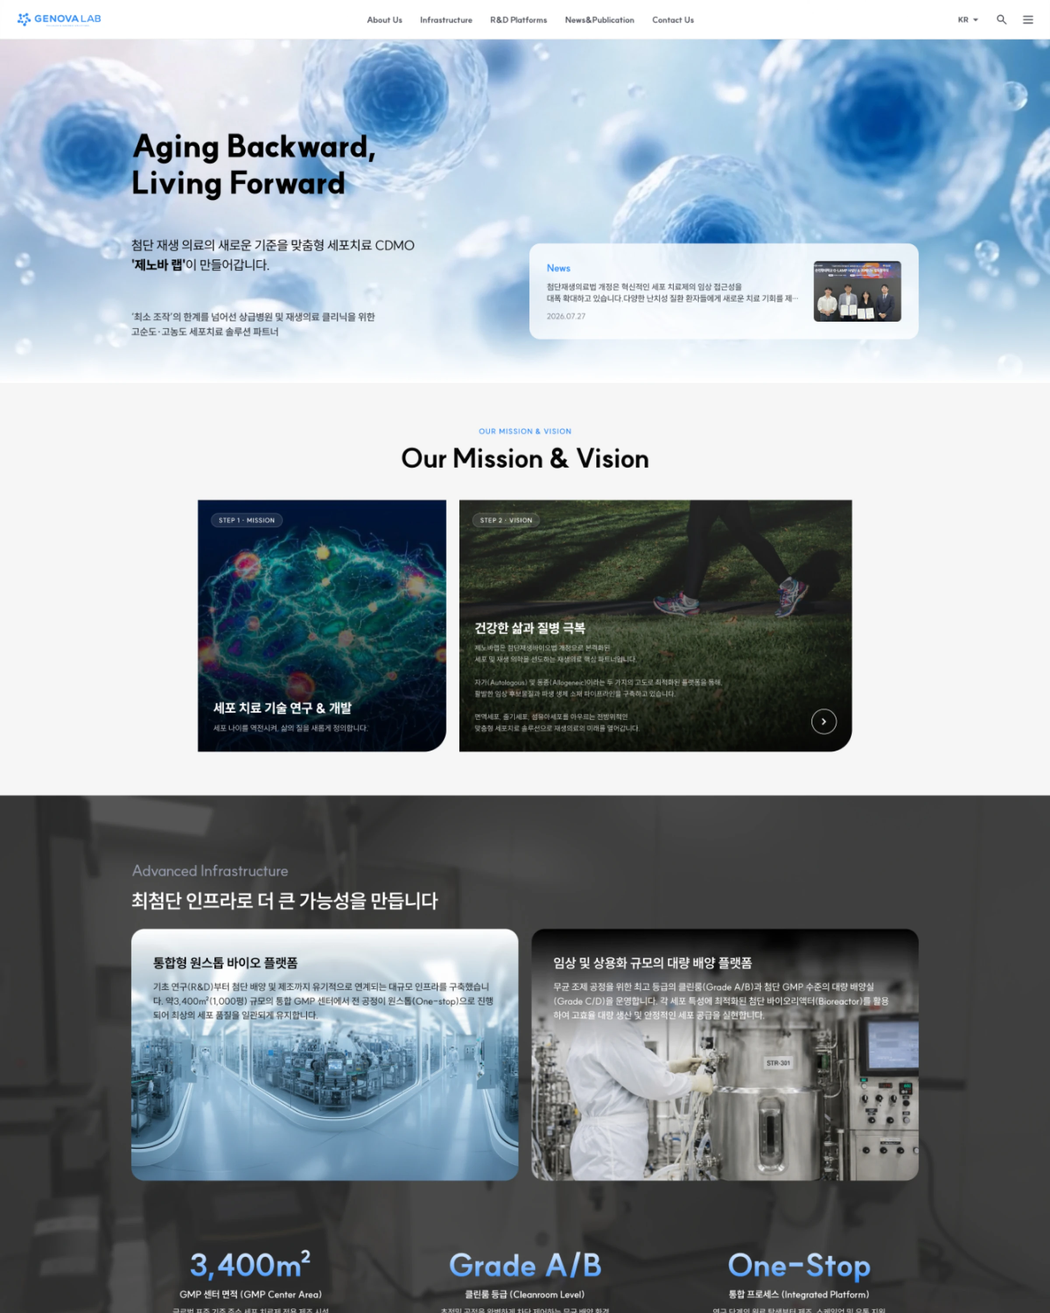
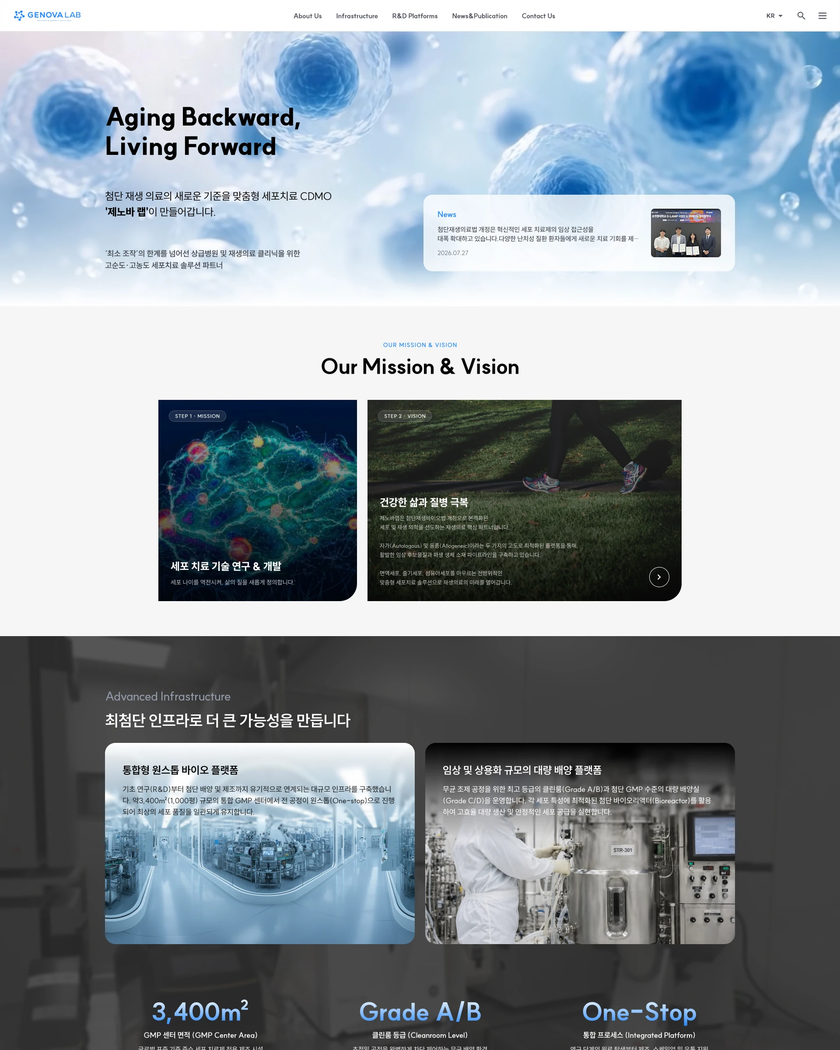
메인 타이틀 크기·행간 조정, 원본 기반 고화질 이미지 18개 교체
Claude-Session: https://claude.ai/code/session_01JxEUUdRAvq1BXQfKpdxvD4

diff --git a/work/genova.html b/work/genova.html
@@ -47,8 +47,8 @@
 </div>
 <section class="section section--surface"><div class="container"><div class="section-head" data-reveal><p class="t-eyebrow">KEY POINTS</p><h2 class="t-h1">기획안에서 최종까지</h2></div><div class="points" style="--cols:4"><div class="point" data-reveal style="--delay:0.00s"><span class="num t-h3">01</span><h3 class="t-h3">핵심 내용 선별</h3><p>업체 제공 자료에서 3,400㎡ · Grade A/B · One-Stop을 핵심으로 골라 Advanced Infrastructure 섹션으로 구성했습니다.</p></div><div class="point" data-reveal style="--delay:0.06s"><span class="num t-h3">02</span><h3 class="t-h3">원페이지 → 서브페이지</h3><p>처음엔 원페이지에 팝업으로 많은 정보를 담았다가, 서브페이지 제작이 결정되며 메인의 정보를 덜어내고 다시 나눴습니다.</p></div><div class="point" data-reveal style="--delay:0.12s"><span class="num t-h3">03</span><h3 class="t-h3">서브페이지 3종</h3><p>클라이언트 요청에 맞춰 공지사항 · 언론보도 · 문의하기 페이지를 추가했습니다.</p></div><div class="point" data-reveal style="--delay:0.18s"><span class="num t-h3">04</span><h3 class="t-h3">피드백 반영</h3><p>Mission과 Vision을 시각적으로 분리하고, 제품 탭을 3종에서 4종(EXOSOME 추가)으로 바꿨습니다.</p></div></div></div></section>
 <section class="section"><div class="container"><div class="section-head" data-reveal><p class="t-eyebrow">STRUCTURE</p><h2 class="t-h1">섹션 구성의 변화</h2><p class="t-sub">블루는 직접 제안한 섹션, 회색 태그는 요청을 반영한 섹션입니다.</p></div><div class="compare"><div class="compare-col" data-reveal><h3 class="t-h3">기획안 (원페이지)</h3><ol><li class=""><span class="n">01</span><span class="label">메인 영상</span></li><li class=""><span class="n">02</span><span class="label">Science — Immune · Stem · NK Cell</span></li><li class=""><span class="n">03</span><span class="label">공식 자문의 소개</span></li><li class=""><span class="n">04</span><span class="label">연구 수치</span></li><li class=""><span class="n">05</span><span class="label">연구 이미지 (본문 미정)</span></li><li class=""><span class="n">06</span><span class="label">파트너</span></li><li class=""><span class="n">07</span><span class="label">연구소 이미지</span></li></ol></div><span class="arrow t-h1" aria-hidden="true">→</span><div class="compare-col" data-reveal><h3 class="t-h3">최종 (메인 + 서브페이지)</h3><ol><li class=""><span class="n">01</span><span class="label">Hero — Aging Backward, Living Forward</span></li><li class=""><span class="n">02</span><span class="label">Our Mission &amp; Vision</span><span class=badge>피드백</span></li><li class="is-mine"><span class="n">03</span><span class="label">Advanced Infrastructure</span><span class=badge>핵심 내용 선별</span></li><li class=""><span class="n">04</span><span class="label">Product — 4종 탭</span><span class=badge>피드백</span></li><li class=""><span class="n">05</span><span class="label">Partners</span></li><li class=""><span class="n">06</span><span class="label">News &amp; Publication</span><span class=badge>마케팅팀 요청</span></li><li class=""><span class="n">07</span><span class="label">Contact</span><span class=badge>마케팅팀 요청</span></li></ol></div></div></div></section>
-<section class="section section--surface"><div class="container"><div class="section-head" data-reveal><p class="t-eyebrow">PROCESS</p><h2 class="t-h1">디자인 방향 탐색</h2><p class="t-sub">기획안을 그대로 옮긴 초기 버전에서 시작해 두 가지 톤을 비교하고, 밝은 블루 세포 비주얼로 확정했습니다.</p></div><div class="figs" style="--cols:4;--cols-m:2"><figure class="fig" data-reveal style="--delay:0.00s"><img src="../img/genova/evolution-01.webp" alt="초기 버전" width="564" height="1720" loading="lazy" decoding="async"><figcaption><strong class="t-h3">초기 버전</strong><span class="sub">기획안 구성 그대로</span></figcaption></figure><figure class="fig" data-reveal style="--delay:0.06s"><img src="../img/genova/evolution-02.webp" alt="시안 1" width="564" height="1720" loading="lazy" decoding="async"><figcaption><strong class="t-h3">시안 1</strong><span class="sub">다크 네이비 · 연구소 신뢰감</span></figcaption></figure><figure class="fig" data-reveal style="--delay:0.12s"><img src="../img/genova/evolution-03.webp" alt="시안 2" width="564" height="1720" loading="lazy" decoding="async"><figcaption><strong class="t-h3">시안 2</strong><span class="sub">밝은 톤 · 실험실 사진</span></figcaption></figure><figure class="fig fig--key" data-reveal style="--delay:0.18s"><img src="../img/genova/evolution-04.webp" alt="최종" width="564" height="1720" loading="lazy" decoding="async"><figcaption><strong class="t-h3">최종</strong><span class="sub">블루 세포 비주얼 · 피드백 반영</span></figcaption></figure></div></div></section>
-<section class="section"><div class="container"><div class="section-head" data-reveal><p class="t-eyebrow">FINAL</p><h2 class="t-h1">최종 디자인</h2></div><div class="full"><div data-reveal><img src="../img/genova/final-main.webp" alt="최종 메인 화면" width="2400" height="3000" loading="lazy" decoding="async"></div></div><h3 class="t-h3" style="margin:48px 0 24px">서브페이지</h3><div class="figs" style="--cols:3;--cols-m:1"><figure class="fig" data-reveal><img src="../img/genova/sub-notice.webp" alt="공지사항 화면" loading="lazy"><figcaption><span>공지사항</span></figcaption></figure><figure class="fig" data-reveal><img src="../img/genova/sub-press.webp" alt="언론보도 화면" loading="lazy"><figcaption><span>언론보도</span></figcaption></figure><figure class="fig" data-reveal><img src="../img/genova/sub-contact.webp" alt="문의하기 화면" loading="lazy"><figcaption><span>문의하기</span></figcaption></figure></div></div></section>
+<section class="section section--surface"><div class="container"><div class="section-head" data-reveal><p class="t-eyebrow">PROCESS</p><h2 class="t-h1">디자인 방향 탐색</h2><p class="t-sub">기획안을 그대로 옮긴 초기 버전에서 시작해 두 가지 톤을 비교하고, 밝은 블루 세포 비주얼로 확정했습니다.</p></div><div class="figs" style="--cols:4;--cols-m:2"><figure class="fig" data-reveal style="--delay:0.00s"><img src="../img/genova/evolution-01.webp" alt="초기 버전" width="900" height="2745" loading="lazy" decoding="async"><figcaption><strong class="t-h3">초기 버전</strong><span class="sub">기획안 구성 그대로</span></figcaption></figure><figure class="fig" data-reveal style="--delay:0.06s"><img src="../img/genova/evolution-02.webp" alt="시안 1" width="900" height="2745" loading="lazy" decoding="async"><figcaption><strong class="t-h3">시안 1</strong><span class="sub">다크 네이비 · 연구소 신뢰감</span></figcaption></figure><figure class="fig" data-reveal style="--delay:0.12s"><img src="../img/genova/evolution-03.webp" alt="시안 2" width="900" height="2745" loading="lazy" decoding="async"><figcaption><strong class="t-h3">시안 2</strong><span class="sub">밝은 톤 · 실험실 사진</span></figcaption></figure><figure class="fig fig--key" data-reveal style="--delay:0.18s"><img src="../img/genova/evolution-04.webp" alt="최종" width="900" height="2745" loading="lazy" decoding="async"><figcaption><strong class="t-h3">최종</strong><span class="sub">블루 세포 비주얼 · 피드백 반영</span></figcaption></figure></div></div></section>
+<section class="section"><div class="container"><div class="section-head" data-reveal><p class="t-eyebrow">FINAL</p><h2 class="t-h1">최종 디자인</h2></div><div class="full"><div data-reveal><img src="../img/genova/final-main.webp" alt="최종 메인 화면" width="1920" height="2400" loading="lazy" decoding="async"></div></div><h3 class="t-h3" style="margin:48px 0 24px">서브페이지</h3><div class="figs" style="--cols:3;--cols-m:1"><figure class="fig" data-reveal><img src="../img/genova/sub-notice.webp" alt="공지사항 화면" loading="lazy"><figcaption><span>공지사항</span></figcaption></figure><figure class="fig" data-reveal><img src="../img/genova/sub-press.webp" alt="언론보도 화면" loading="lazy"><figcaption><span>언론보도</span></figcaption></figure><figure class="fig" data-reveal><img src="../img/genova/sub-contact.webp" alt="문의하기 화면" loading="lazy"><figcaption><span>문의하기</span></figcaption></figure></div></div></section>
 <section class="section section--surface"><div class="container"><div class="result"><div class="section-head" data-reveal><p class="t-eyebrow">RESULT</p><h2 class="t-h1">결과</h2></div><div data-reveal><div class="t-body-l"><p>키워드 중심의 원페이지 기획안을 메인과 서브페이지 3종으로 구체화하고, 클라이언트 피드백을 반영해 최종 디자인을 확정했습니다. 이후 클라이언트 측 일정 보류로 퍼블리싱 전 단계에서 종료되었습니다.</p></div></div></div></div></section>
 <nav class="next-nav section--surface" aria-label="프로젝트 이동">
   <div class="container">

diff --git a/work/allagelab.html b/work/allagelab.html
@@ -49,8 +49,8 @@ FileZilla · AI 툴</dd></div><div><dt>STATUS</dt><dd>1차 디자인 확정 및 
 </div>
 <section class="section section--surface"><div class="container"><div class="section-head" data-reveal><p class="t-eyebrow">KEY POINTS</p><h2 class="t-h1">디자인부터 배포까지</h2></div><div class="points" style="--cols:4"><div class="point" data-reveal style="--delay:0.00s"><span class="num t-h3">01</span><h3 class="t-h3">고급스럽고 깔끔하게</h3><p>마케팅팀의 요청에 맞춰 장식적인 요소를 덜어내고, 여백과 정돈된 타이포로 화면을 구성했습니다.</p></div><div class="point" data-reveal style="--delay:0.06s"><span class="num t-h3">02</span><h3 class="t-h3">브랜드 페이지 공통 틀</h3><p>브랜드 페이지를 같은 레이아웃에 색과 이미지만 바꿔 일관되게 만들고, 브랜드별 개성은 제품 상세페이지에서 보여주도록 역할을 나눴습니다.</p></div><div class="point" data-reveal style="--delay:0.12s"><span class="num t-h3">03</span><h3 class="t-h3">반응형 설계</h3><p>데스크톱과 모바일을 설계하고, 태블릿 환경까지 직접 만들어 화면이 어떻게 바뀌는지 확인했습니다.</p></div><div class="point" data-reveal style="--delay:0.18s"><span class="num t-h3">04</span><h3 class="t-h3">직접 구현과 배포</h3><p>HTML을 PHP 파일로 구성하고 CSS · JS를 정리해 FileZilla로 서버에 올렸습니다. SEO 기본 세팅도 완료했습니다.</p></div></div></div></section>
 <section class="section section--soft"><div class="container"><div class="section-head" data-reveal><p class="t-eyebrow">WORKFLOW</p><h2 class="t-h1">AI를 도구로 쓰는 작업 과정</h2><p class="t-sub">AI가 만든 결과물은 의도를 먼저 파악하고, 제가 생각한 방향과 다르면 직접 수정하고 보완했습니다.</p></div><div class="steps"><div class="step" data-reveal style="--delay:0.00s"><span class="num t-h3">01</span><h3 class="t-h3">디자인 초안</h3><p>기획안과 비슷한 뷰티 브랜드 레퍼런스를 바탕으로 초안 제작</p></div><div class="step" data-reveal style="--delay:0.06s"><span class="num t-h3">02</span><h3 class="t-h3">섹션별 다듬기</h3><p>섹션 구성, 폰트, 이미지를 하나씩 수정</p></div><div class="step" data-reveal style="--delay:0.12s"><span class="num t-h3">03</span><h3 class="t-h3">피드백</h3><p>마케팅팀 검토와 셀프 검토로 수정</p></div><div class="step is-key" data-reveal style="--delay:0.18s"><span class="num t-h3">04</span><h3 class="t-h3">AI 퍼블리싱</h3><p>확정된 디자인을 AI를 활용해 코드로 구현</p></div><div class="step" data-reveal style="--delay:0.24s"><span class="num t-h3">05</span><h3 class="t-h3">검수와 보완</h3><p>오류와 의도와 다른 부분을 확인해 직접 수정</p></div></div></div></section>
-<section class="section"><div class="container"><div class="section-head" data-reveal><p class="t-eyebrow">BRAND PAGES</p><h2 class="t-h1">하나의 틀, 세 개의 브랜드</h2><p class="t-sub">클로베라와 닥터씨에이지는 같은 레이아웃에 브랜드별 색과 이미지만 바꿔 일관되게 만들었고, 출시 전인 뷰마셀은 Coming Soon 페이지로 따로 구성했습니다.</p></div><div class="figs" style="--cols:3;--cols-m:1"><figure class="fig" data-reveal style="--delay:0.00s"><img src="../img/allagelab/brand-clovera.webp" alt="클로베라" width="768" height="1800" loading="lazy" decoding="async"><figcaption><strong class="t-h3">클로베라</strong><span class="sub">Brand Page</span></figcaption></figure><figure class="fig" data-reveal style="--delay:0.06s"><img src="../img/allagelab/brand-drcage.webp" alt="닥터씨에이지" width="768" height="1800" loading="lazy" decoding="async"><figcaption><strong class="t-h3">닥터씨에이지</strong><span class="sub">Brand Page</span></figcaption></figure><figure class="fig" data-reveal style="--delay:0.12s"><img src="../img/allagelab/brand-beaumacell.webp" alt="뷰마셀" width="768" height="1800" loading="lazy" decoding="async"><figcaption><strong class="t-h3">뷰마셀</strong><span class="sub">Coming Soon</span></figcaption></figure></div></div></section>
-<section class="section section--surface"><div class="container"><div class="section-head" data-reveal><p class="t-eyebrow">RESPONSIVE</p><h2 class="t-h1">데스크톱 · 태블릿 · 모바일</h2></div><div class="figs row-bottom" style="--tpl:3.47fr 2fr 1fr 1fr;--cols-m:2"><figure class="fig" data-reveal style="--delay:0.00s"><img src="../img/allagelab/rwd-desktop.webp" alt="데스크톱 화면" width="1040" height="1280" loading="lazy" decoding="async"><figcaption><span class="sub">Desktop 1440</span></figcaption></figure><figure class="fig" data-reveal style="--delay:0.06s"><img src="../img/allagelab/rwd-tablet.webp" alt="태블릿 화면" width="600" height="1280" loading="lazy" decoding="async"><figcaption><span class="sub">Tablet 768</span></figcaption></figure><figure class="fig" data-reveal style="--delay:0.12s"><img src="../img/allagelab/rwd-mobile.webp" alt="모바일 화면" width="300" height="1280" loading="lazy" decoding="async"><figcaption><span class="sub">Mobile 390</span></figcaption></figure><figure class="fig" data-reveal style="--delay:0.18s"><img src="../img/allagelab/rwd-menu.webp" alt="모바일 메뉴 열림 화면" width="300" height="650" loading="lazy" decoding="async"><figcaption><span class="sub">Mobile Menu</span></figcaption></figure></div></div></section>
+<section class="section"><div class="container"><div class="section-head" data-reveal><p class="t-eyebrow">BRAND PAGES</p><h2 class="t-h1">하나의 틀, 세 개의 브랜드</h2><p class="t-sub">클로베라와 닥터씨에이지는 같은 레이아웃에 브랜드별 색과 이미지만 바꿔 일관되게 만들었고, 출시 전인 뷰마셀은 Coming Soon 페이지로 따로 구성했습니다.</p></div><div class="figs" style="--cols:3;--cols-m:1"><figure class="fig" data-reveal style="--delay:0.00s"><img src="../img/allagelab/brand-clovera.webp" alt="클로베라" width="1100" height="2580" loading="lazy" decoding="async"><figcaption><strong class="t-h3">클로베라</strong><span class="sub">Brand Page</span></figcaption></figure><figure class="fig" data-reveal style="--delay:0.06s"><img src="../img/allagelab/brand-drcage.webp" alt="닥터씨에이지" width="1100" height="2580" loading="lazy" decoding="async"><figcaption><strong class="t-h3">닥터씨에이지</strong><span class="sub">Brand Page</span></figcaption></figure><figure class="fig" data-reveal style="--delay:0.12s"><img src="../img/allagelab/brand-beaumacell.webp" alt="뷰마셀" width="1100" height="2580" loading="lazy" decoding="async"><figcaption><strong class="t-h3">뷰마셀</strong><span class="sub">Coming Soon</span></figcaption></figure></div></div></section>
+<section class="section section--surface"><div class="container"><div class="section-head" data-reveal><p class="t-eyebrow">RESPONSIVE</p><h2 class="t-h1">데스크톱 · 태블릿 · 모바일</h2></div><div class="figs row-bottom" style="--tpl:3.47fr 2fr 1fr 1fr;--cols-m:2"><figure class="fig" data-reveal style="--delay:0.00s"><img src="../img/allagelab/rwd-desktop.webp" alt="데스크톱 화면" width="1600" height="1968" loading="lazy" decoding="async"><figcaption><span class="sub">Desktop 1440</span></figcaption></figure><figure class="fig" data-reveal style="--delay:0.06s"><img src="../img/allagelab/rwd-tablet.webp" alt="태블릿 화면" width="600" height="1280" loading="lazy" decoding="async"><figcaption><span class="sub">Tablet 768</span></figcaption></figure><figure class="fig" data-reveal style="--delay:0.12s"><img src="../img/allagelab/rwd-mobile.webp" alt="모바일 화면" width="300" height="1280" loading="lazy" decoding="async"><figcaption><span class="sub">Mobile 390</span></figcaption></figure><figure class="fig" data-reveal style="--delay:0.18s"><img src="../img/allagelab/rwd-menu.webp" alt="모바일 메뉴 열림 화면" width="300" height="650" loading="lazy" decoding="async"><figcaption><span class="sub">Mobile Menu</span></figcaption></figure></div></div></section>
 <section class="section"><div class="container"><div class="duo"><div data-reveal><p class="t-eyebrow">CHALLENGE</p><h2 class="t-h2">어려웠던 점</h2><div class="t-body-l"><p>정확한 정보나 타깃층이 정해지지 않아 디자인 방향을 스스로 판단해야 했습니다. 비슷한 뷰티 브랜드 사이트를 폭넓게 참고하고, 회의 때 레퍼런스를 보여드리며 방향을 먼저 제안했습니다.</p><p>일정이 짧은 프로젝트라 디자인과 퍼블리싱을 먼저 진행한 뒤 수정하는 방식으로 속도를 냈습니다.</p></div></div><div data-reveal><p class="t-eyebrow">RESULT</p><h2 class="t-h2">결과</h2><div class="t-body-l"><p>10월 초안 이후 11월 첫째 주에 1차 디자인을 확정하고 퍼블리싱까지 완료해 서버에 배포했습니다.</p><p>이후 콘텐츠 확정 전 단계까지 참여했습니다.</p></div></div></div></div></section>
 <nav class="next-nav section--surface" aria-label="프로젝트 이동">
   <div class="container">

diff --git a/work/libropia.html b/work/libropia.html
@@ -33,7 +33,7 @@
     <h1 class="t-hero" data-reveal>Libropia</h1>
     <p class="t-body-l t-sub" data-reveal>공공도서관 앱 리브로피아 리디자인</p>
   </div>
-  <div class='work-thumb' data-reveal><img src="../img/libropia/hero.webp" alt="Libropia 대표 화면" width="2400" height="1350"></div>
+  <div class='work-thumb' data-reveal><img src="../img/libropia/hero.webp" alt="Libropia 대표 화면" width="1920" height="1080"></div>
   <div class="summary">
     <dl class="info" data-reveal><div><dt>TYPE</dt><dd>개인 프로젝트</dd></div><div><dt>PERIOD</dt><dd>2025.04.28 — 2025.05.10 (약 2주)</dd></div><div><dt>ROLE</dt><dd>기획 · 리서치 · UI/UX 디자인 100%</dd></div><div><dt>SCOPE</dt><dd>모바일 앱 주요 화면 리디자인</dd></div><div><dt>TOOLS</dt><dd>Figma · Illustrator</dd></div><div><dt>KEYWORD</dt><dd>정확성 · 누구나 · 친근성</dd></div></dl>
     <div class="overview" data-reveal>
@@ -44,9 +44,9 @@
   </div>
 </div>
 <section class="section section--surface"><div class="container"><div class="section-head" data-reveal><p class="t-eyebrow">KEY POINTS</p><h2 class="t-h1">리서치에서 찾은 문제, 화면으로 해결</h2></div><div class="points" style="--cols:4"><div class="point" data-reveal style="--delay:0.00s"><span class="num t-h3">01</span><h3 class="t-h3">회원증 바로 실행</h3><p>가장 자주 쓰는 모바일 회원증을 하단 탭에 고정해 어느 화면에서든 바로 열 수 있게 했습니다.</p></div><div class="point" data-reveal style="--delay:0.06s"><span class="num t-h3">02</span><h3 class="t-h3">주요 기능 재배치</h3><p>이용 목적 리서치를 바탕으로 대출 · 예약 · 열람실 등 자주 쓰는 기능을 홈 상단에 모았습니다.</p></div><div class="point" data-reveal style="--delay:0.12s"><span class="num t-h3">03</span><h3 class="t-h3">필터링으로 정확한 검색</h3><p>도서관 · 분야 · 인기순 필터를 추가하고, 검색 결과가 없을 땐 희망도서 신청으로 이어지게 했습니다.</p></div><div class="point" data-reveal style="--delay:0.18s"><span class="num t-h3">04</span><h3 class="t-h3">열람실 대시보드</h3><p>남은 좌석과 좌석 배치를 한눈에 보여주고, 빈 좌석 알림을 신청할 수 있게 했습니다.</p></div></div></div></section>
-<section class="section"><div class="container"><div class="section-head" data-reveal><p class="t-eyebrow">RESEARCH</p><h2 class="t-h1">사용자 리서치와 문제 정의</h2><p class="t-sub">기존 앱 화면을 분석하고 사용자 의견을 모아 다섯 가지 문제점과 해결 방향을 정리했습니다.</p></div><div class="full"><div data-reveal><img src="../img/libropia/research.webp" alt="배경, 사용자 리서치, 문제점과 해결 방향" width="2400" height="2480" loading="lazy" decoding="async"></div></div></div></section>
-<section class="section"><div class="container"><div class="section-head" data-reveal><p class="t-eyebrow">IA</p><h2 class="t-h1">정보 구조 재설계</h2><p class="t-sub">홈에 흩어져 있던 기능을 정리해 원하는 목표에 더 빨리 닿도록 구조화했습니다.</p></div><div class="full"><div data-reveal><img src="../img/libropia/ia.webp" alt="정보 구조도" width="2400" height="1350" loading="lazy" decoding="async"></div></div></div></section>
-<section class="section section--surface"><div class="container"><div class="section-head" data-reveal><p class="t-eyebrow">SCREENS</p><h2 class="t-h1">주요 화면</h2></div><div class="full"><div data-reveal><img src="../img/libropia/screen-01.webp" alt="홈, 회원증, 희망도서, 예약 화면" width="2400" height="4516" loading="lazy" decoding="async"></div><div data-reveal><img src="../img/libropia/screen-02.webp" alt="검색 화면" width="2400" height="3416" loading="lazy" decoding="async"></div><div data-reveal><img src="../img/libropia/screen-03.webp" alt="열람실 화면" width="2400" height="2012" loading="lazy" decoding="async"></div></div></div></section>
+<section class="section"><div class="container"><div class="section-head" data-reveal><p class="t-eyebrow">RESEARCH</p><h2 class="t-h1">사용자 리서치와 문제 정의</h2><p class="t-sub">기존 앱 화면을 분석하고 사용자 의견을 모아 다섯 가지 문제점과 해결 방향을 정리했습니다.</p></div><div class="full"><div data-reveal><img src="../img/libropia/research.webp" alt="배경, 사용자 리서치, 문제점과 해결 방향" width="1920" height="1987" loading="lazy" decoding="async"></div></div></div></section>
+<section class="section"><div class="container"><div class="section-head" data-reveal><p class="t-eyebrow">IA</p><h2 class="t-h1">정보 구조 재설계</h2><p class="t-sub">홈에 흩어져 있던 기능을 정리해 원하는 목표에 더 빨리 닿도록 구조화했습니다.</p></div><div class="full"><div data-reveal><img src="../img/libropia/ia.webp" alt="정보 구조도" width="1920" height="1080" loading="lazy" decoding="async"></div></div></div></section>
+<section class="section section--surface"><div class="container"><div class="section-head" data-reveal><p class="t-eyebrow">SCREENS</p><h2 class="t-h1">주요 화면</h2></div><div class="full"><div data-reveal><img src="../img/libropia/screen-01.webp" alt="홈, 회원증, 희망도서, 예약 화면" width="1920" height="3613" loading="lazy" decoding="async"></div><div data-reveal><img src="../img/libropia/screen-02.webp" alt="검색 화면" width="1920" height="2733" loading="lazy" decoding="async"></div><div data-reveal><img src="../img/libropia/screen-03.webp" alt="열람실 화면" width="1920" height="1609" loading="lazy" decoding="async"></div></div></div></section>
 <section class="section"><div class="container"><div class="result"><div class="section-head" data-reveal><p class="t-eyebrow">RESULT</p><h2 class="t-h1">정리</h2></div><div data-reveal><div class="t-body-l"><p>리서치로 찾은 다섯 가지 문제를 각각 화면 단위의 해결책으로 연결했습니다. 기능을 더하기보다 자주 쓰는 기능을 찾기 쉽게 배치하는 데 집중해, 처음 쓰는 사용자도 헤매지 않는 구조를 목표로 했습니다.</p></div></div></div></div></section>
 <nav class="next-nav section--surface" aria-label="프로젝트 이동">
   <div class="container">

diff --git a/css/home.css b/css/home.css
@@ -103,3 +103,6 @@
   .digital-strip button:nth-child(n+7) { display: block; }
   .lb-prev, .lb-next { display: none; }
 }
+
+/* 메인 타이틀 — 레퍼런스(moodnight) 기준 크기 · 행간 */
+.hero .t-hero { font-size: clamp(44px, 8.6vw, 138px); line-height: 1.04; letter-spacing: -0.05em; }

diff --git a/CLAUDE.md b/CLAUDE.md
@@ -6,7 +6,8 @@
 - 프레임워크 없이 **HTML · CSS · JavaScript만** 씁니다. 빌드 단계가 없습니다.
 - 디자인 원본은 Figma 파일 `1ClGZfx7ervEHwIhbEvR0R`의 **Portfolio Site** 페이지입니다. 문구나 레이아웃을 바꿀 때는 피그마와 맞춰 주세요.
 - 이미지 원본은 같은 파일의 **Export — Site Assets** 페이지에 있습니다. 레이어 이름이 곧 파일 경로입니다(`img/home/featured-irecell` → `img/home/featured-irecell.webp`).
-- 이미지는 WebP(quality 80)로 넣습니다. 큰 화면용은 폭 2000px 이하.
+- 이미지는 WebP(quality 90)로 넣습니다. 큰 화면용은 폭 1920px 이하.
+- 원본(시안 JPG · 캡처 · PPT PNG)이 있으면 Figma를 거치지 않고 원본에서 바로 한 번만 변환합니다. Figma 내보내기는 여러 조각을 합친 이미지(목업 등)에만 씁니다.
 
 ## 폴더 구조
 ```
